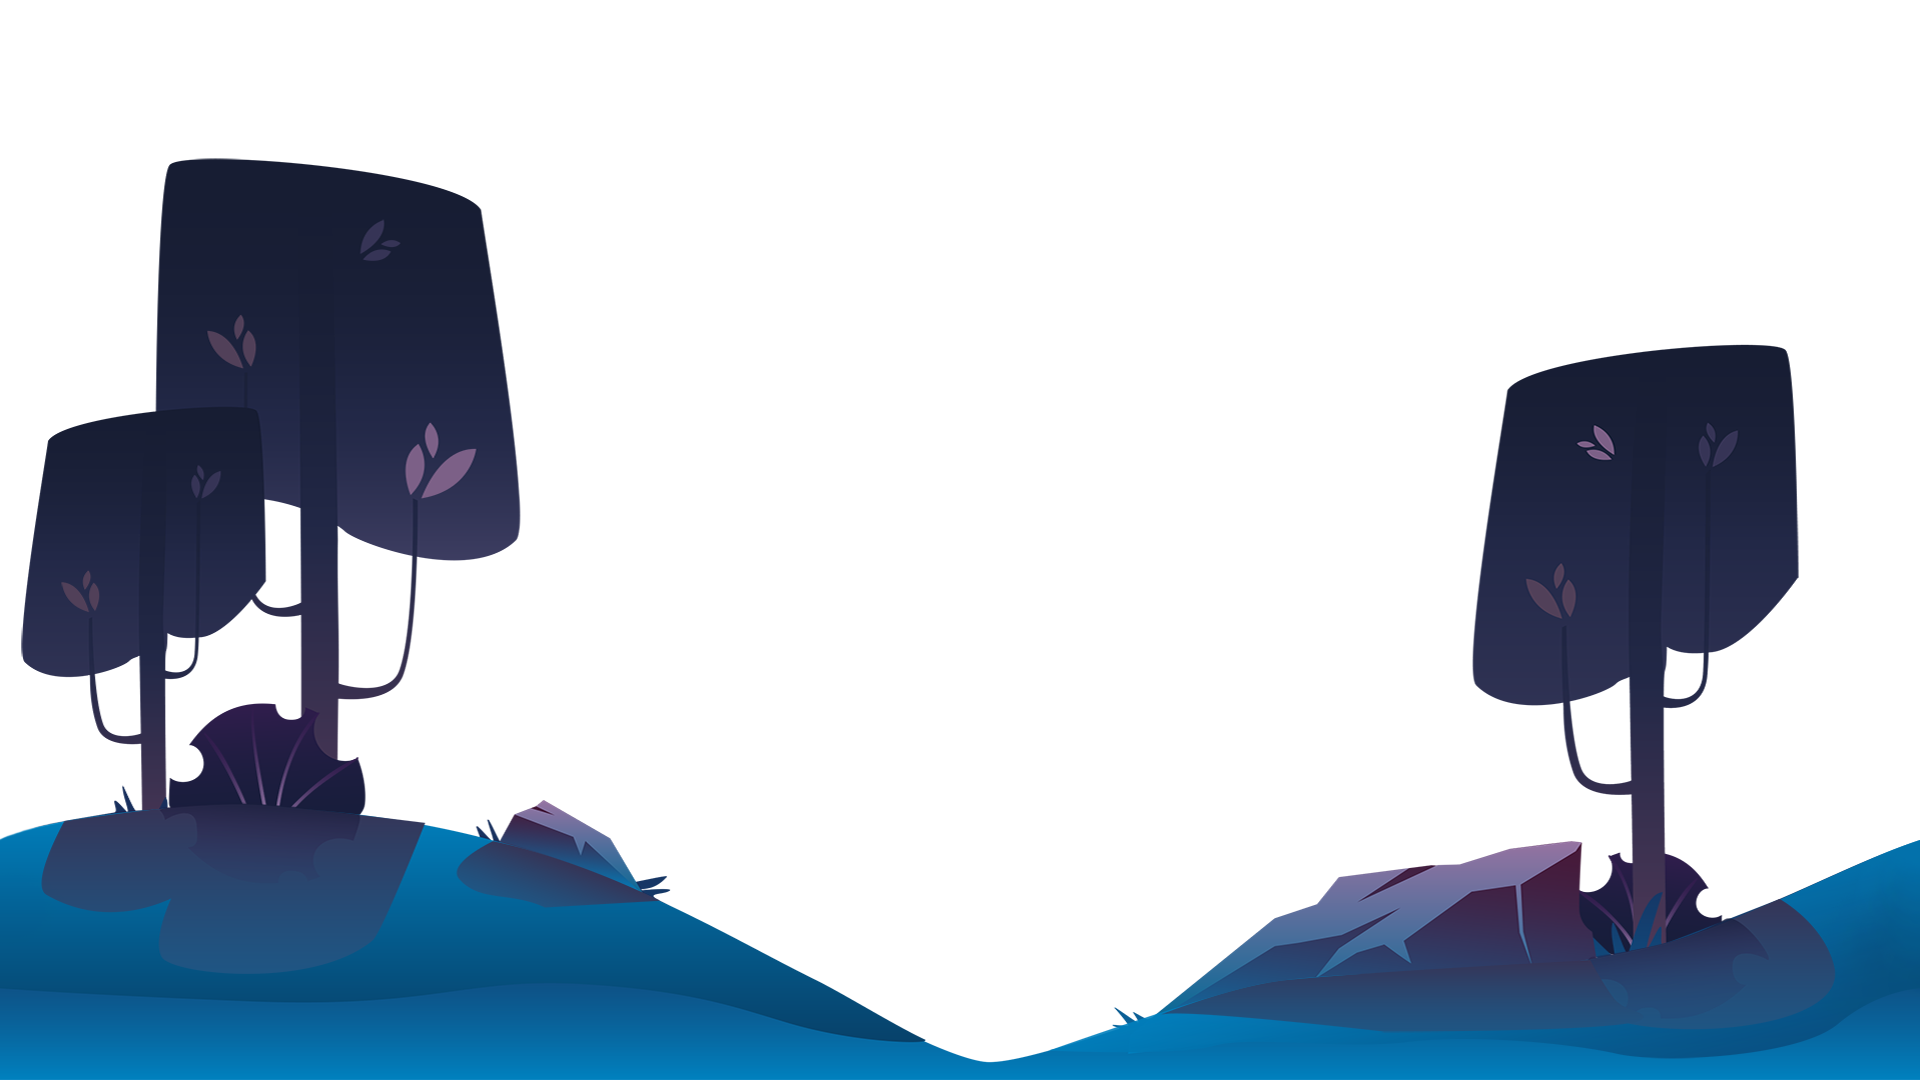
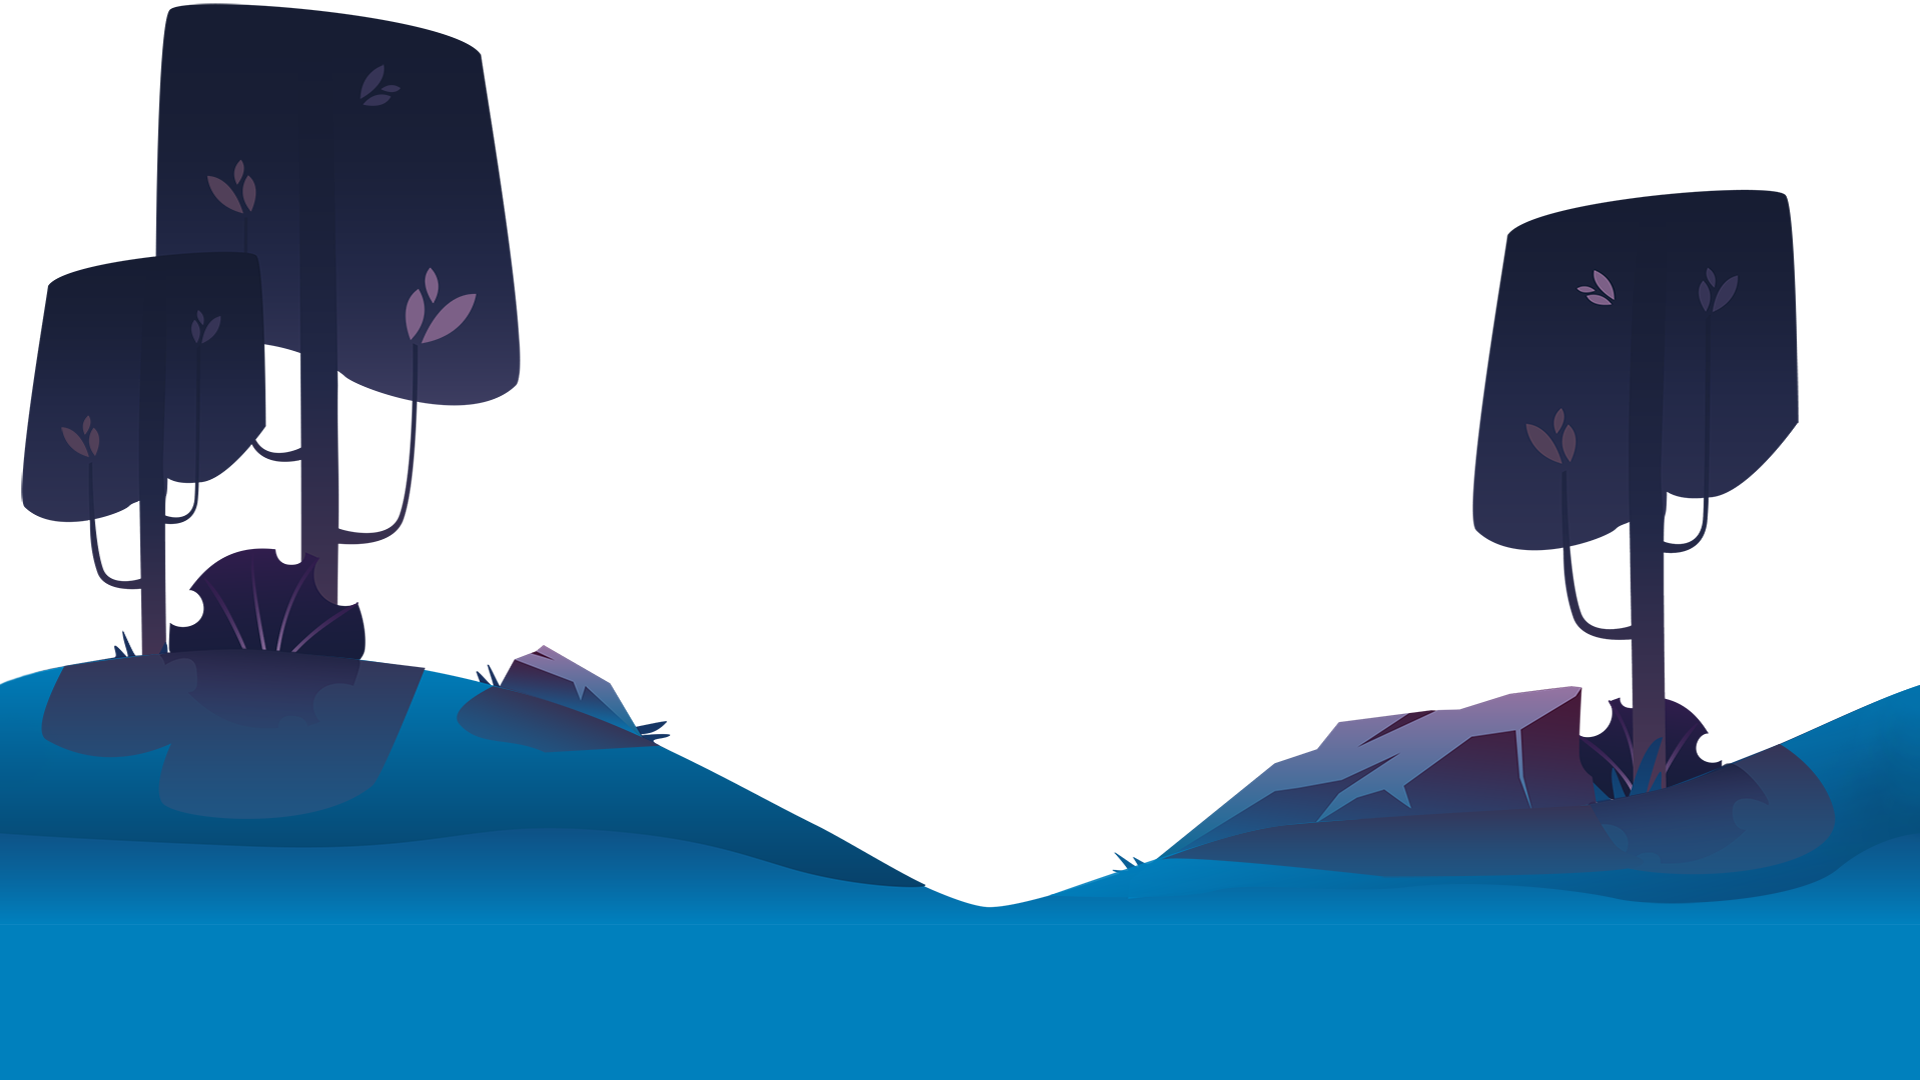
editing backgrounds for lvl 3 to fit on characters position

diff --git a/js/game.js b/js/game.js
@@ -190,10 +190,6 @@ function nextLevel(){
     if(levelIndex < 2){
         levelIndex ++;
         tryAgain();
-        setNextLevelButtonVisble();
-    }
-    else {
-        setNextLevelButtonInvisble();
     }
 }
 
@@ -246,6 +242,7 @@ function openImpressum(){
 
 /**
  * Displays a win or lose overlay and updates the highscore if the game is won.
+ * Toggles the next level button visibility based on the current level.
  * @param {boolean} won - True if the player won, false otherwise.
  */
 function openOverlayOnGameOver(won){
@@ -253,6 +250,12 @@ function openOverlayOnGameOver(won){
         youWinToggle();
         if(localStorage.getItem('Highscore') === null || JSON.parse(localStorage.getItem('Highscore')) < points){
             localStorage.setItem('Highscore', JSON.stringify(points))
+        }
+        if(levelIndex < 2){
+            setNextLevelButtonVisble();
+        }
+        else {
+            setNextLevelButtonInvisble();
         }
     }
     else youLoseToggle();

diff --git a/classes/level.class.js b/classes/level.class.js
@@ -135,6 +135,9 @@ export class Level {
         } 
     }   
     
+    /**
+     * Adds the air background object to the level.
+     */
     addAir(){
         this.air = new BackgroundObject(ImageHub.backgrounds[this.lvl].air, 20);  
     }
